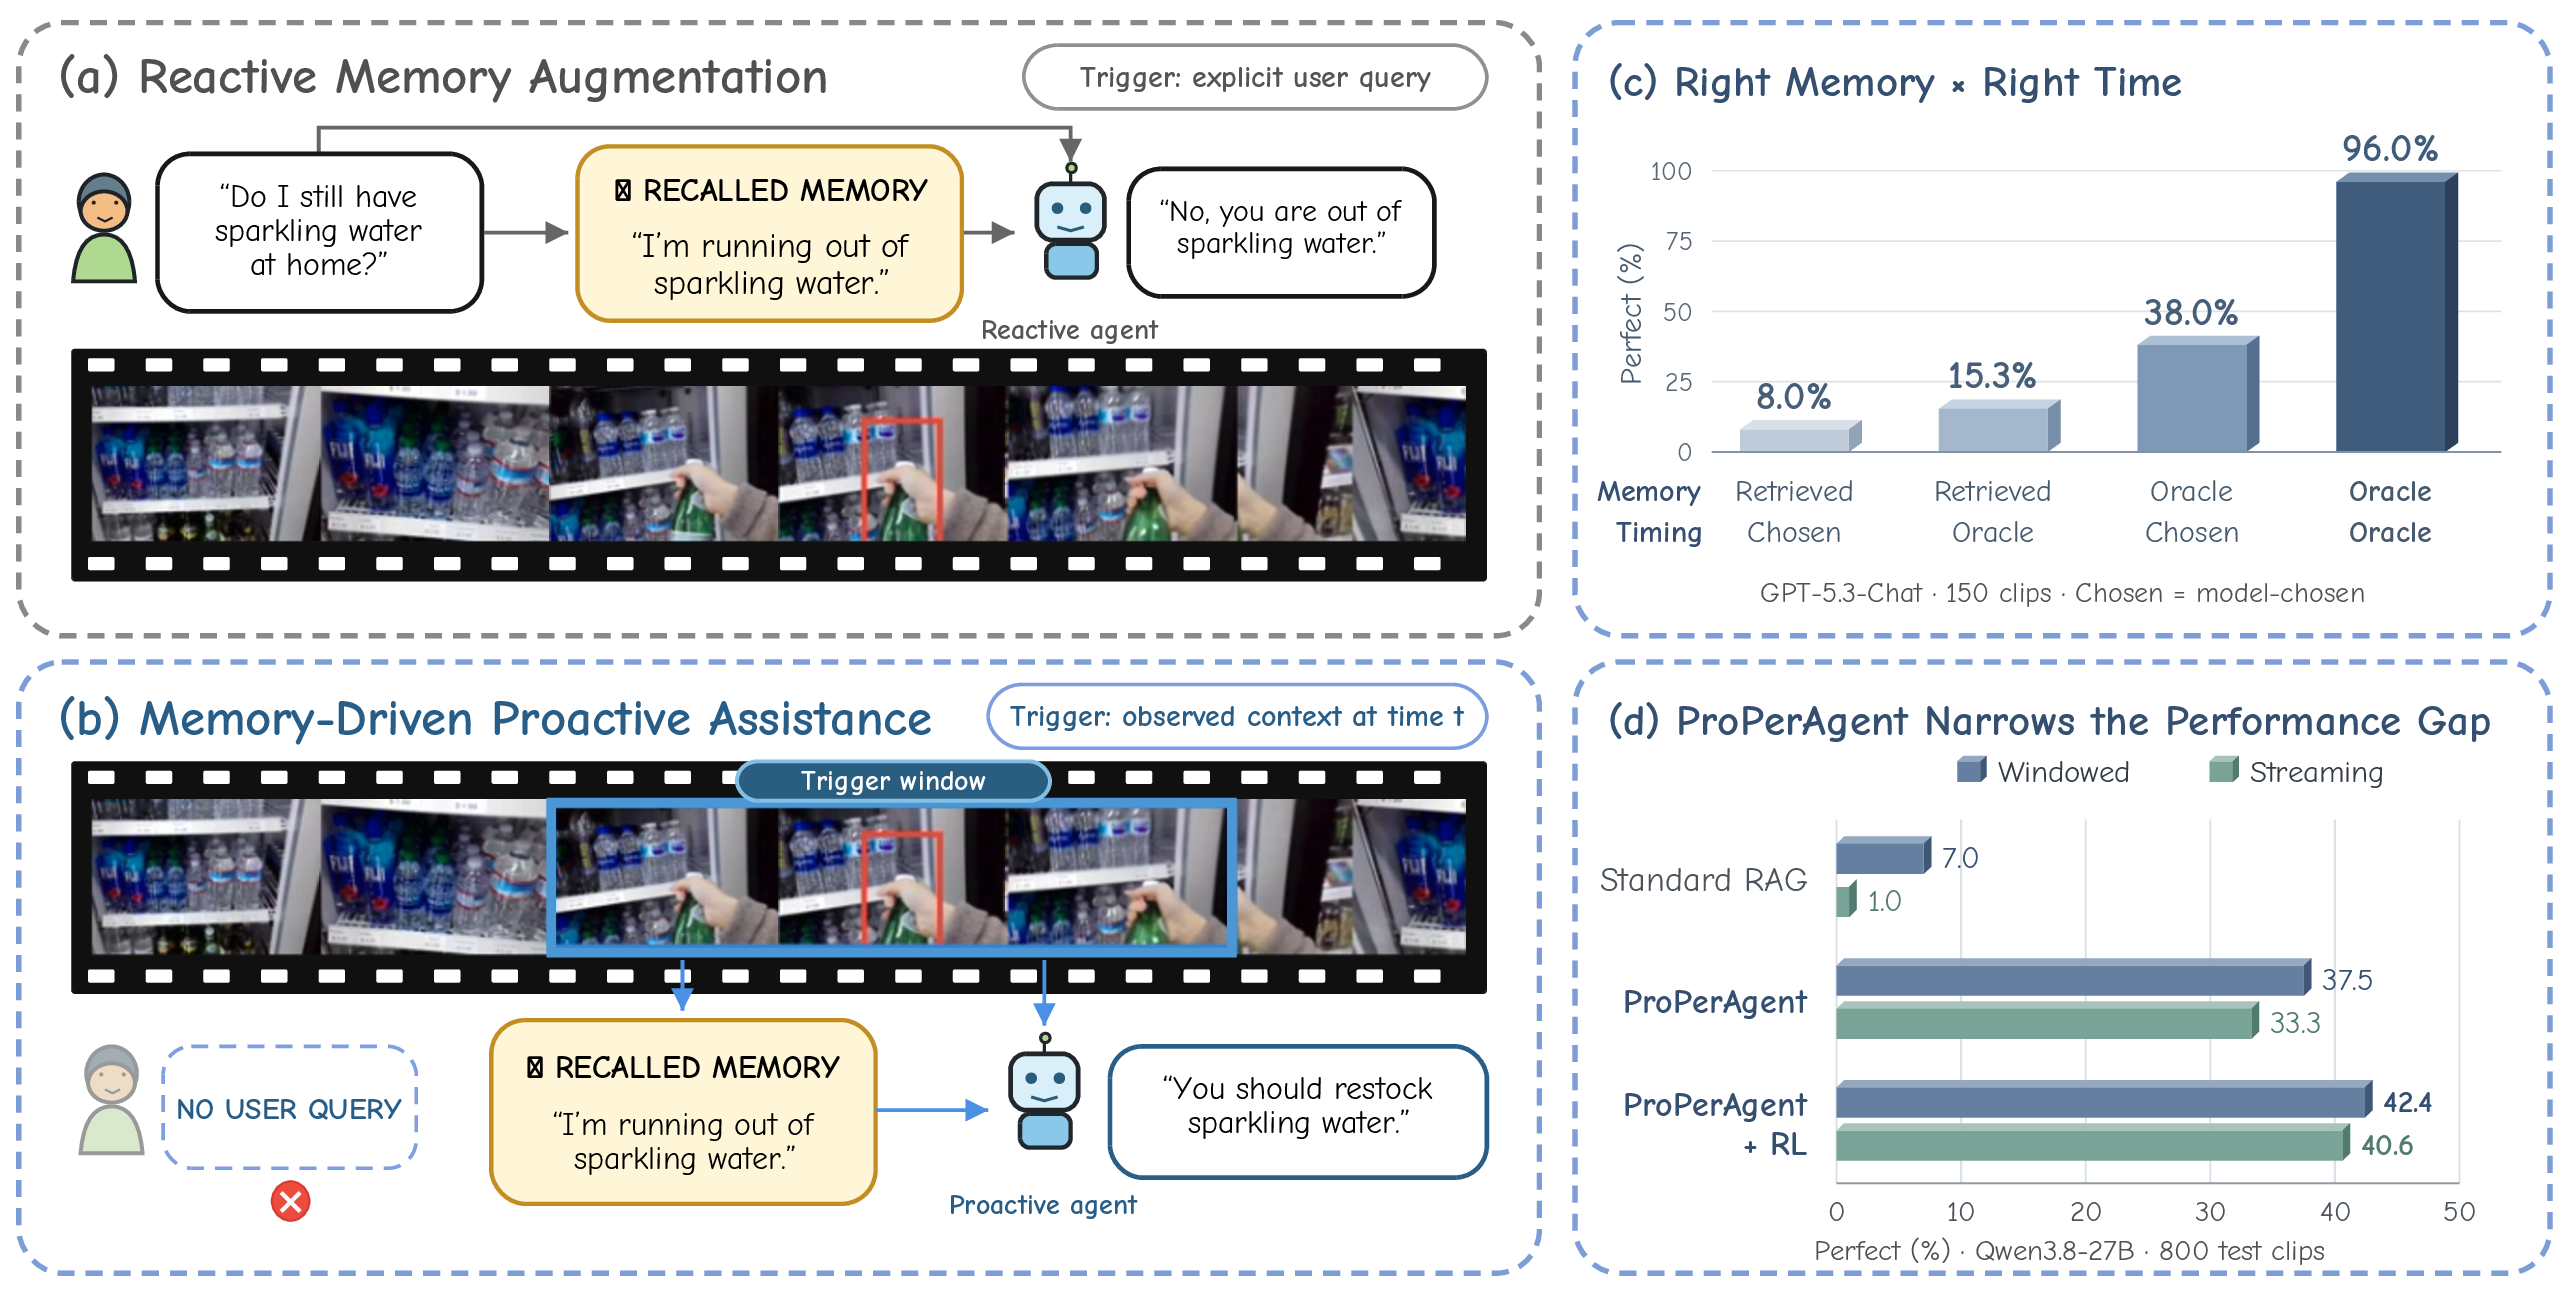
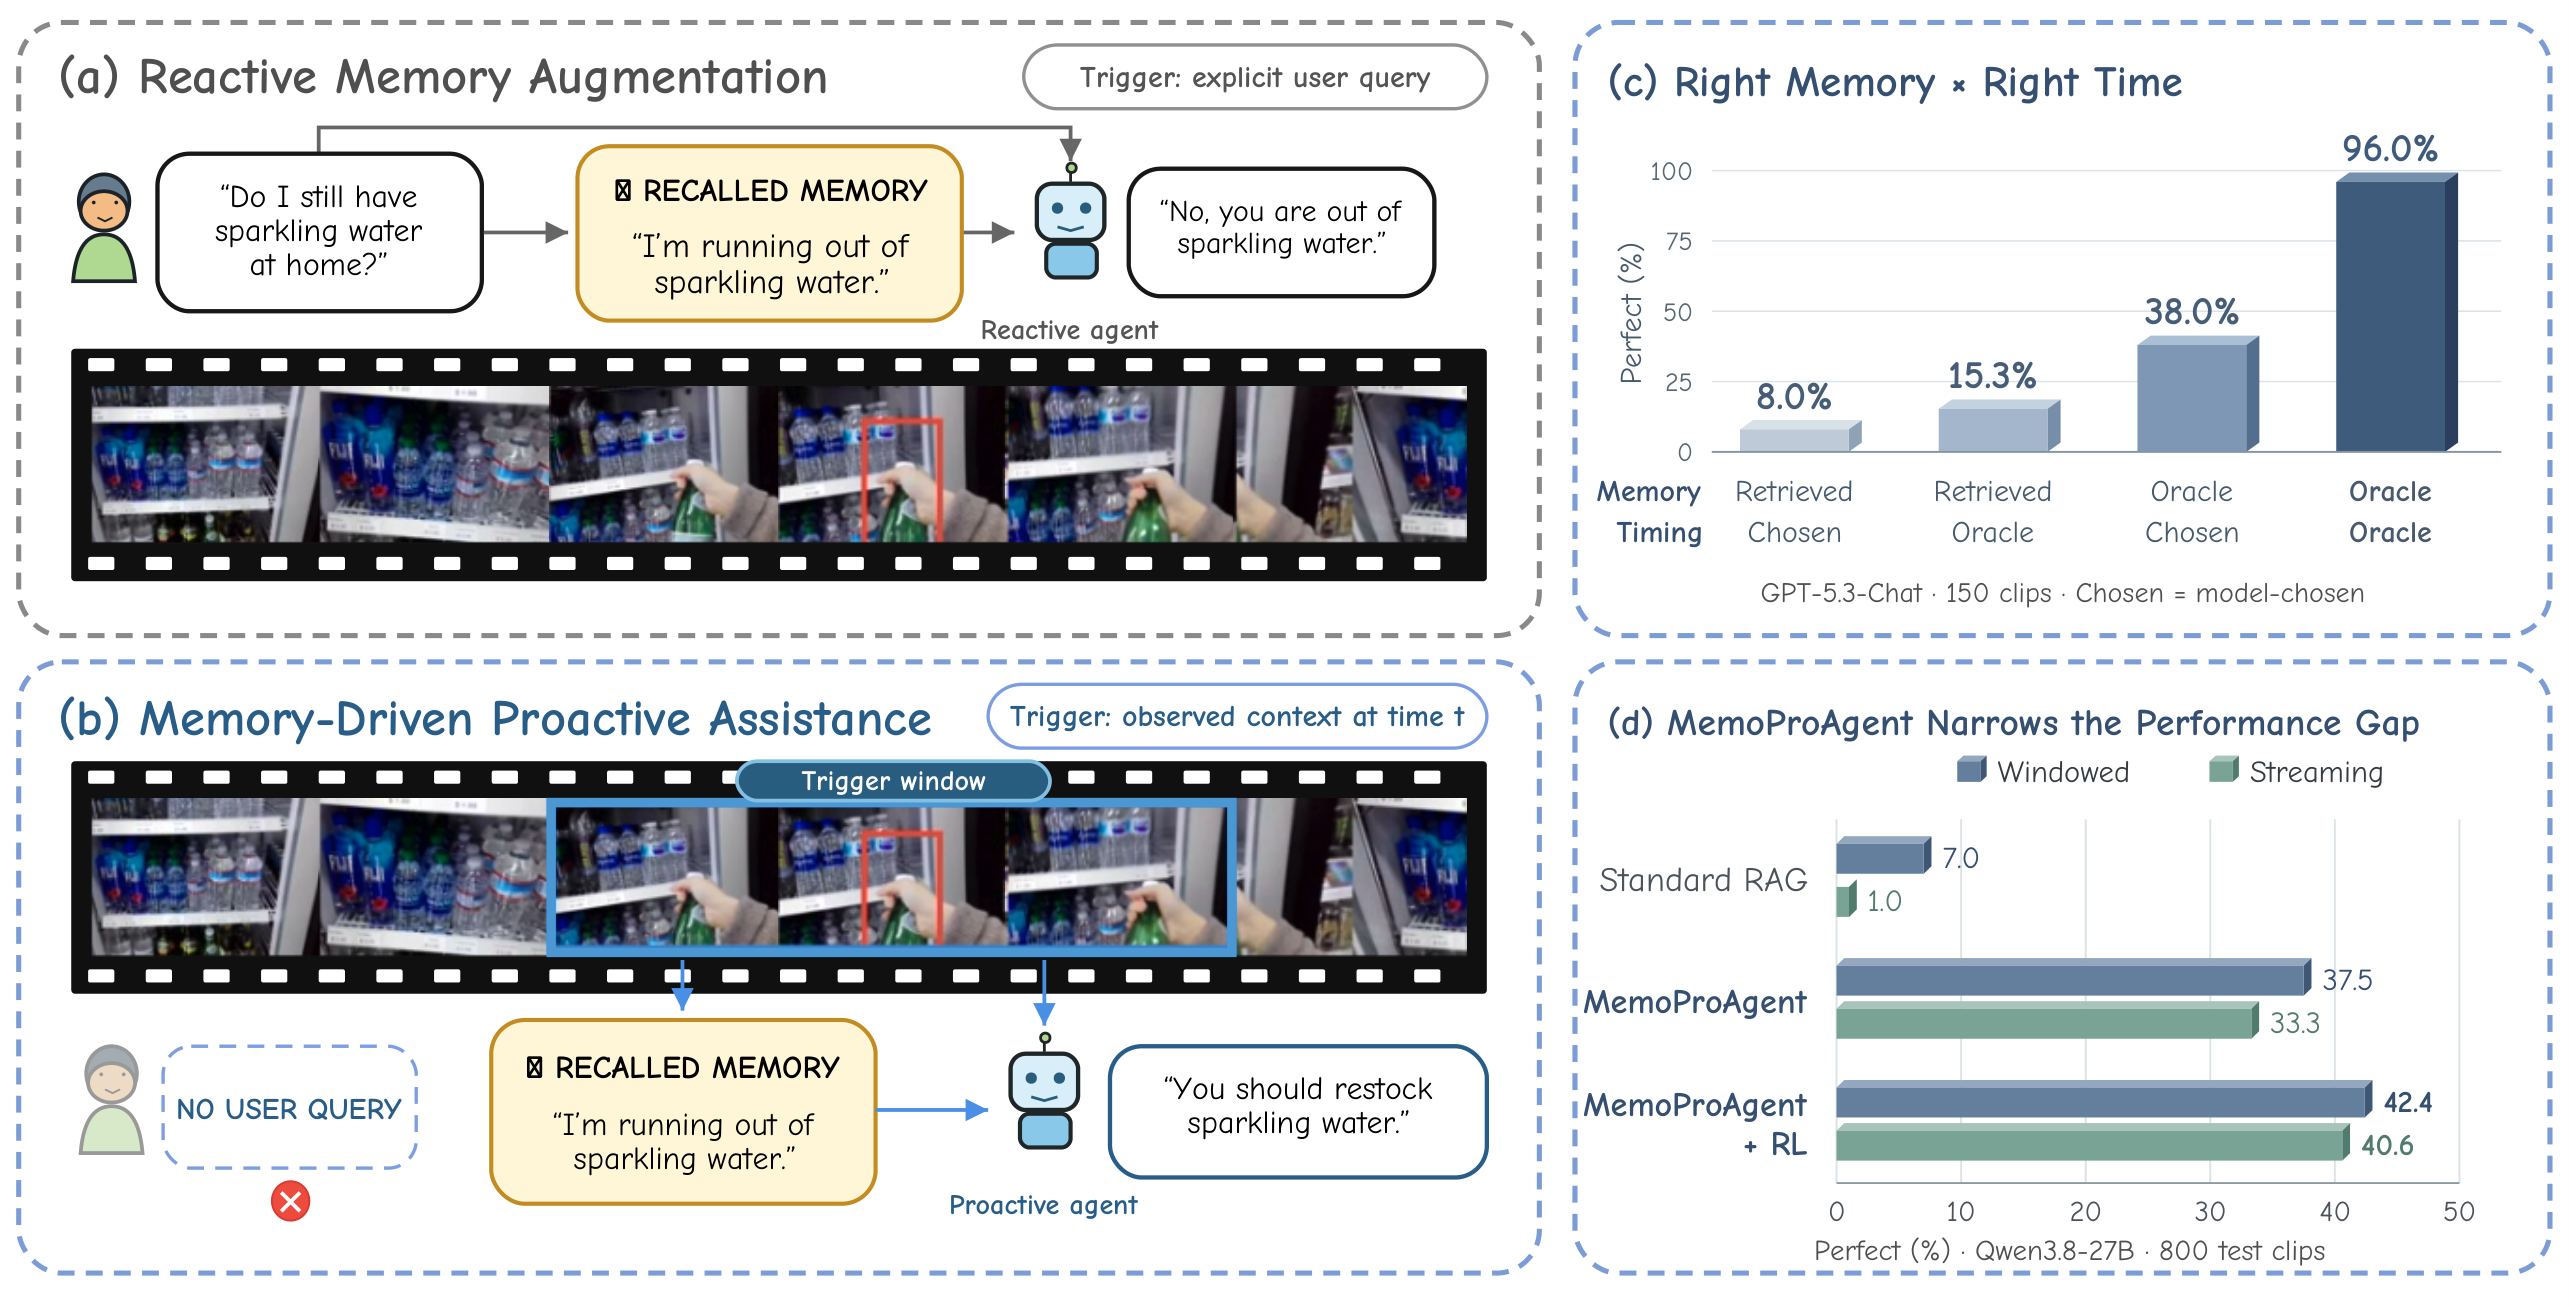
update_10_21

diff --git a/README.md b/README.md
@@ -82,13 +82,14 @@ python tools/prepare_propermem.py --help
 ```
 
 Configure an OpenAI-compatible vision-language endpoint in `configs/example.yaml`.
-For Qwen served by vLLM, use `configs/qwen_vllm.yaml`: it explicitly disables
+For [Qwen3.8-27B](https://huggingface.co/Qwen/Qwen3.8-27B) served by vLLM,
+use `configs/qwen_vllm.yaml`: it explicitly disables
 thinking on policy and gate requests, including the gate-backed memory extractor,
 and enables `policy_sampling.observe_stop`. Both examples use the served model
 name `qwen` and one endpoint for policy and gate. A possible serving command is:
 
 ```bash
-vllm serve Qwen/Qwen3-VL-30B-A3B-Instruct --served-model-name qwen \
+vllm serve Qwen/Qwen3.8-27B --served-model-name qwen \
   --port 8000 --limit-mm-per-prompt '{"image":32}' \
   --default-chat-template-kwargs '{"enable_thinking":false}'
 ```
@@ -96,7 +97,8 @@ vllm serve Qwen/Qwen3-VL-30B-A3B-Instruct --served-model-name qwen \
 The JSON argument syntax was checked with vLLM 0.27.1. Confirm flag and
 `enable_thinking` chat-template support for your chosen model and serving version;
 other OpenAI-compatible services may not support these extensions. The generic
-configuration remains available for those services.
+configuration remains available for those services. `qwen` is the served-model
+alias used by the configuration, not the checkpoint name.
 
 `observe_stop` stops at a generated `</observe>` and preserves that delimiter.
 It does not force the model to generate a closing tag before the token limit,
@@ -104,9 +106,11 @@ and disabling thinking does not guarantee well-formed reason/answer output.
 A `<reason>` element belongs to the explicit inference protocol, not a hidden
 thinking trace. Do not count missing tags or an empty answer as valid silence.
 
-This is a configuration example, **not a paper checkpoint or a paper-results
-recipe**. Choose a model and serving setup that fit your hardware. The commands
-below use the Qwen/vLLM profile; substitute your configuration for other services.
+This serves the paper's base model, **not a post-trained checkpoint or a complete
+paper-results recipe**. Matching the base model alone does not reproduce the
+paper results. Choose a model and serving setup that fit your hardware. The
+commands below use the Qwen/vLLM profile; substitute your configuration for other
+services.
 
 Build the retrieval graph and embeddings **locally** from the prepared history.
 No prebuilt-index download is required. Construction uses the configured
@@ -174,15 +178,6 @@ server are supported.
 Slurm is optional. The [generic template](tools/slurm/run_gpm.sbatch) connects to
 already-running services and requires your own scheduler resources, environment
 and checkout path. It is not required for the Quick Start.
-
-## Migration From `properagent` (Historical Note)
-
-The software namespace was hard-renamed from `properagent` to `memoproagent`
-with no compatibility aliases: reinstall the package, update imports to
-`memoproagent`, use `memoproagent-run` / `memoproagent-build-memory`, and set
-`MEMOPROAGENT_POLICY_KEY` / `MEMOPROAGENT_GATE_KEY`. No data move is needed:
-the serialized schema (`properagent_memory_v1`) and `propermem/` layout are
-unchanged.
 
 ## Licensing
 
